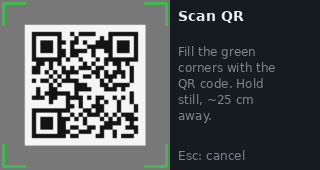
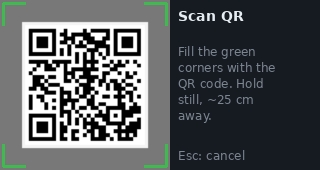
Screenshots: show every screen in the README, six in the store listing

Changed region(s): [[0.0625, 0.1176, 0.4688, 0.8824]]

diff --git a/wirezero/main.py b/wirezero/main.py
@@ -58,25 +58,13 @@ def run_sim(outdir):
 
         def __init__(self):
             from PIL import Image, ImageDraw
-            frame = Image.new("L", (640, 480), 120)
-            d = ImageDraw.Draw(frame)
-            d.rectangle((150, 70, 490, 410), fill=245)
-            frame = frame
-            import random
-            rnd = random.Random(4)
-            cell = 12
-            for gy in range(25):
-                for gx in range(25):
-                    finder = (gx < 7 and gy < 7) or (gx > 17 and gy < 7) or (gx < 7 and gy > 17)
-                    on = rnd.random() < 0.5
-                    if finder:
-                        r = max(abs(gx % 18 - 3) if gx > 17 else abs(gx - 3),
-                                abs(gy % 18 - 3) if gy > 17 else abs(gy - 3))
-                        on = r in (0, 1, 3)
-                    if on:
-                        x, y = 170 + gx * cell, 90 + gy * cell
-                        d.rectangle((x, y, x + cell - 1, y + cell - 1), fill=20)
-            frame = frame.crop((80, 0, 560, 480)).resize((1080, 1080))
+            frame = Image.new("L", (1080, 1080), 120)
+            qr_path = os.path.join(os.path.dirname(os.path.abspath(__file__)),
+                                   "..", "tools", "sim-qr.png")
+            if os.path.exists(qr_path):           # repo checkout: use the sample QR
+                qr = Image.open(qr_path).convert("L").resize((760, 760), Image.NEAREST)
+                ImageDraw.Draw(frame).rectangle((140, 140, 940, 940), fill=245)
+                frame.paste(qr, (160, 160))
             self.frame = (frame.tobytes(), 1080, 1080)
             self.error = None
             self.result = None

diff --git a/README.md b/README.md
@@ -6,6 +6,16 @@ Import a `.conf`, press Enter, you're on your VPN. Pair it with an SSH app
 
 ![Tunnel list](screenshots/01-list@3x.png)
 
+## Screens
+
+| | |
+|---|---|
+| ![Tunnel list](screenshots/01-list@3x.png)<br>**Tunnels**: status, address, auto-connect badge | ![Details](screenshots/02-details@3x.png)<br>**Details**: address, DNS, endpoint, traffic |
+| ![Import](screenshots/03-import@3x.png)<br>**Import**: `.conf` files found on the device | ![Scan QR](screenshots/09-scan@3x.png)<br>**Scan QR**: import with the camera |
+| ![Name](screenshots/10-name@3x.png)<br>**Name**: name a scanned tunnel | ![Remove original](screenshots/04-remove-original@3x.png)<br>**Key hygiene**: offer to delete the original file |
+| ![Delete](screenshots/06-confirm@3x.png)<br>**Delete**: always confirmed | ![Help](screenshots/07-help@3x.png)<br>**Help**: every key on one screen |
+| ![Empty](screenshots/08-empty@3x.png)<br>**First run**: how to get started | |
+
 ## Features
 
 - Import standard WireGuard (`wg-quick`) `.conf` files
